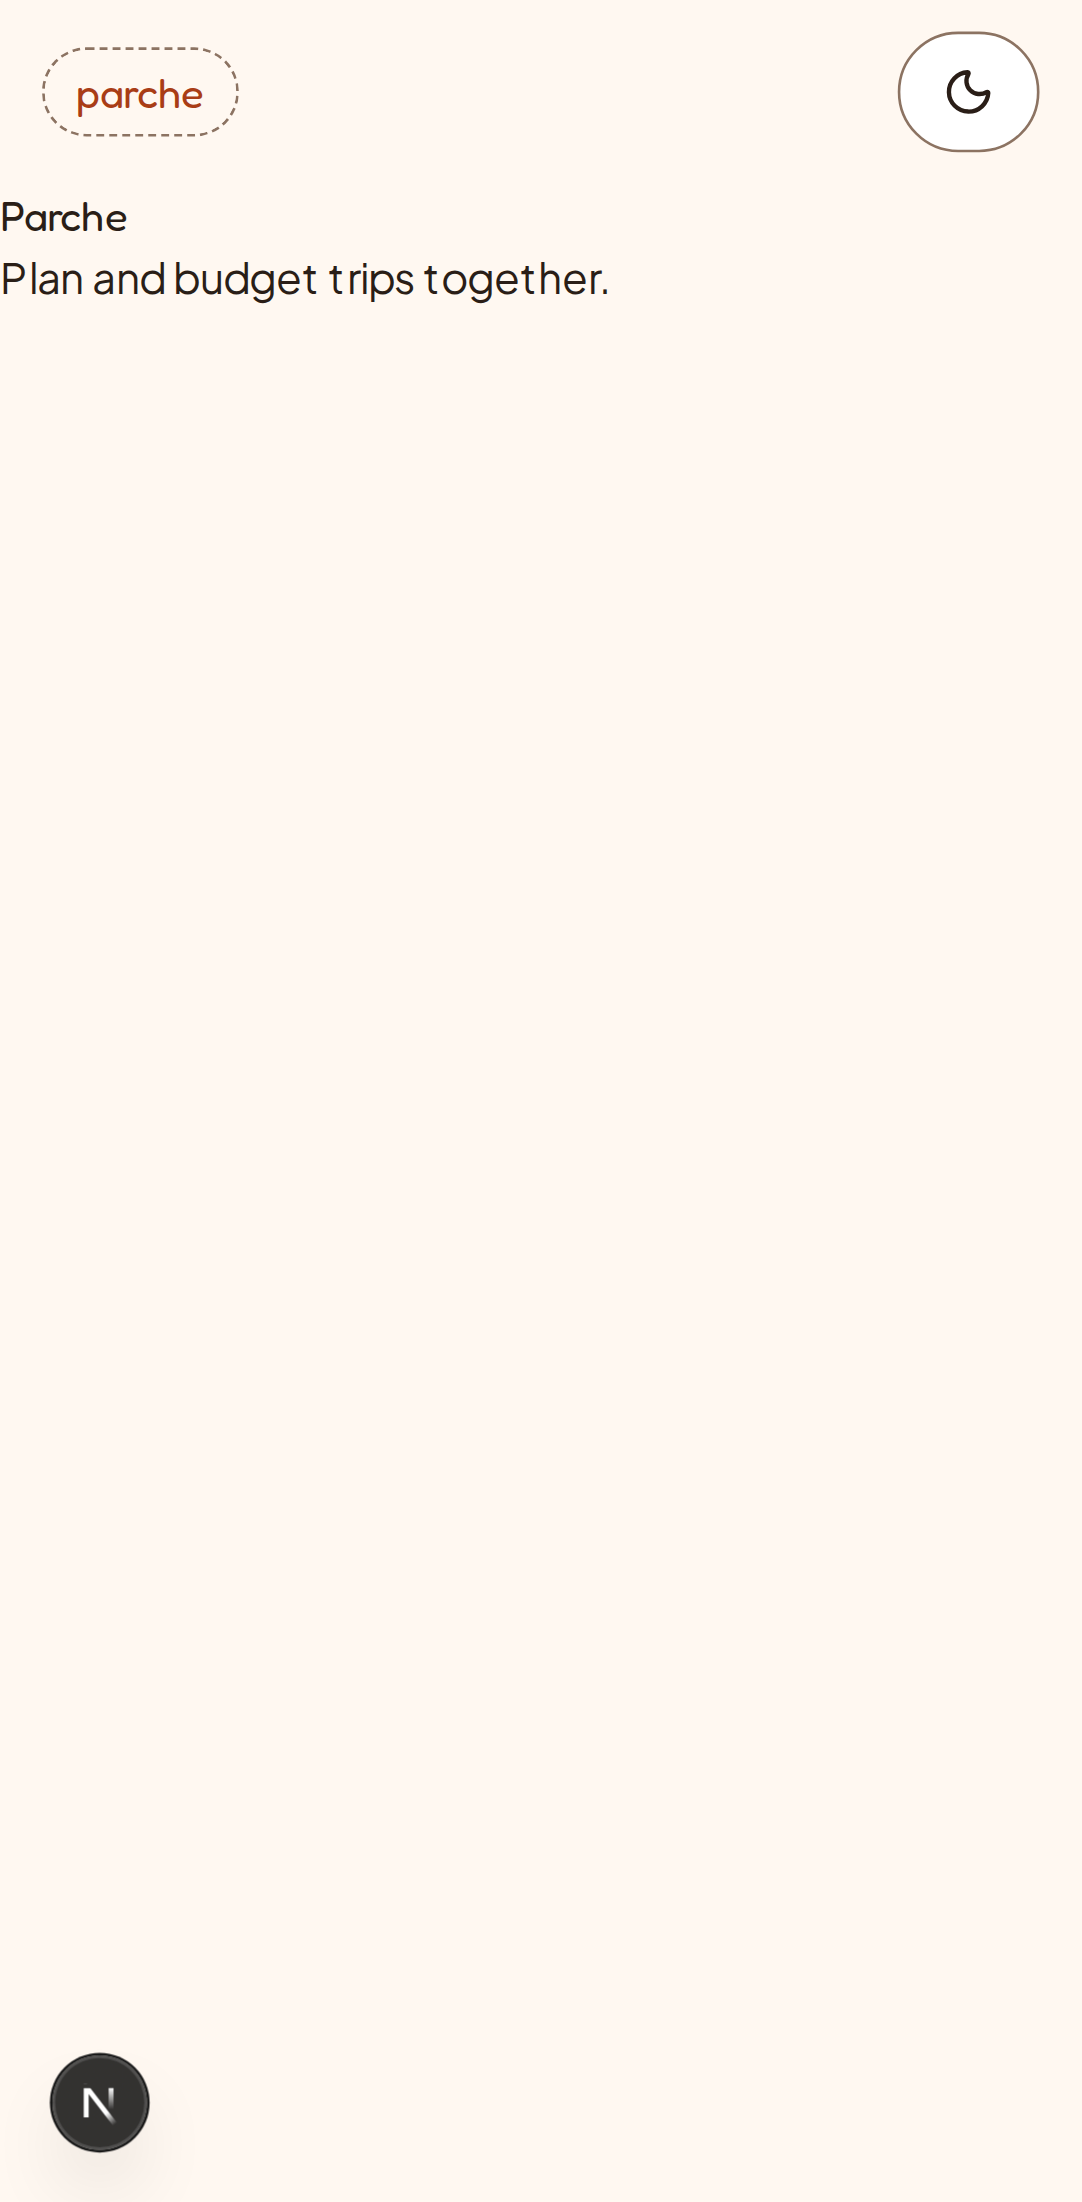
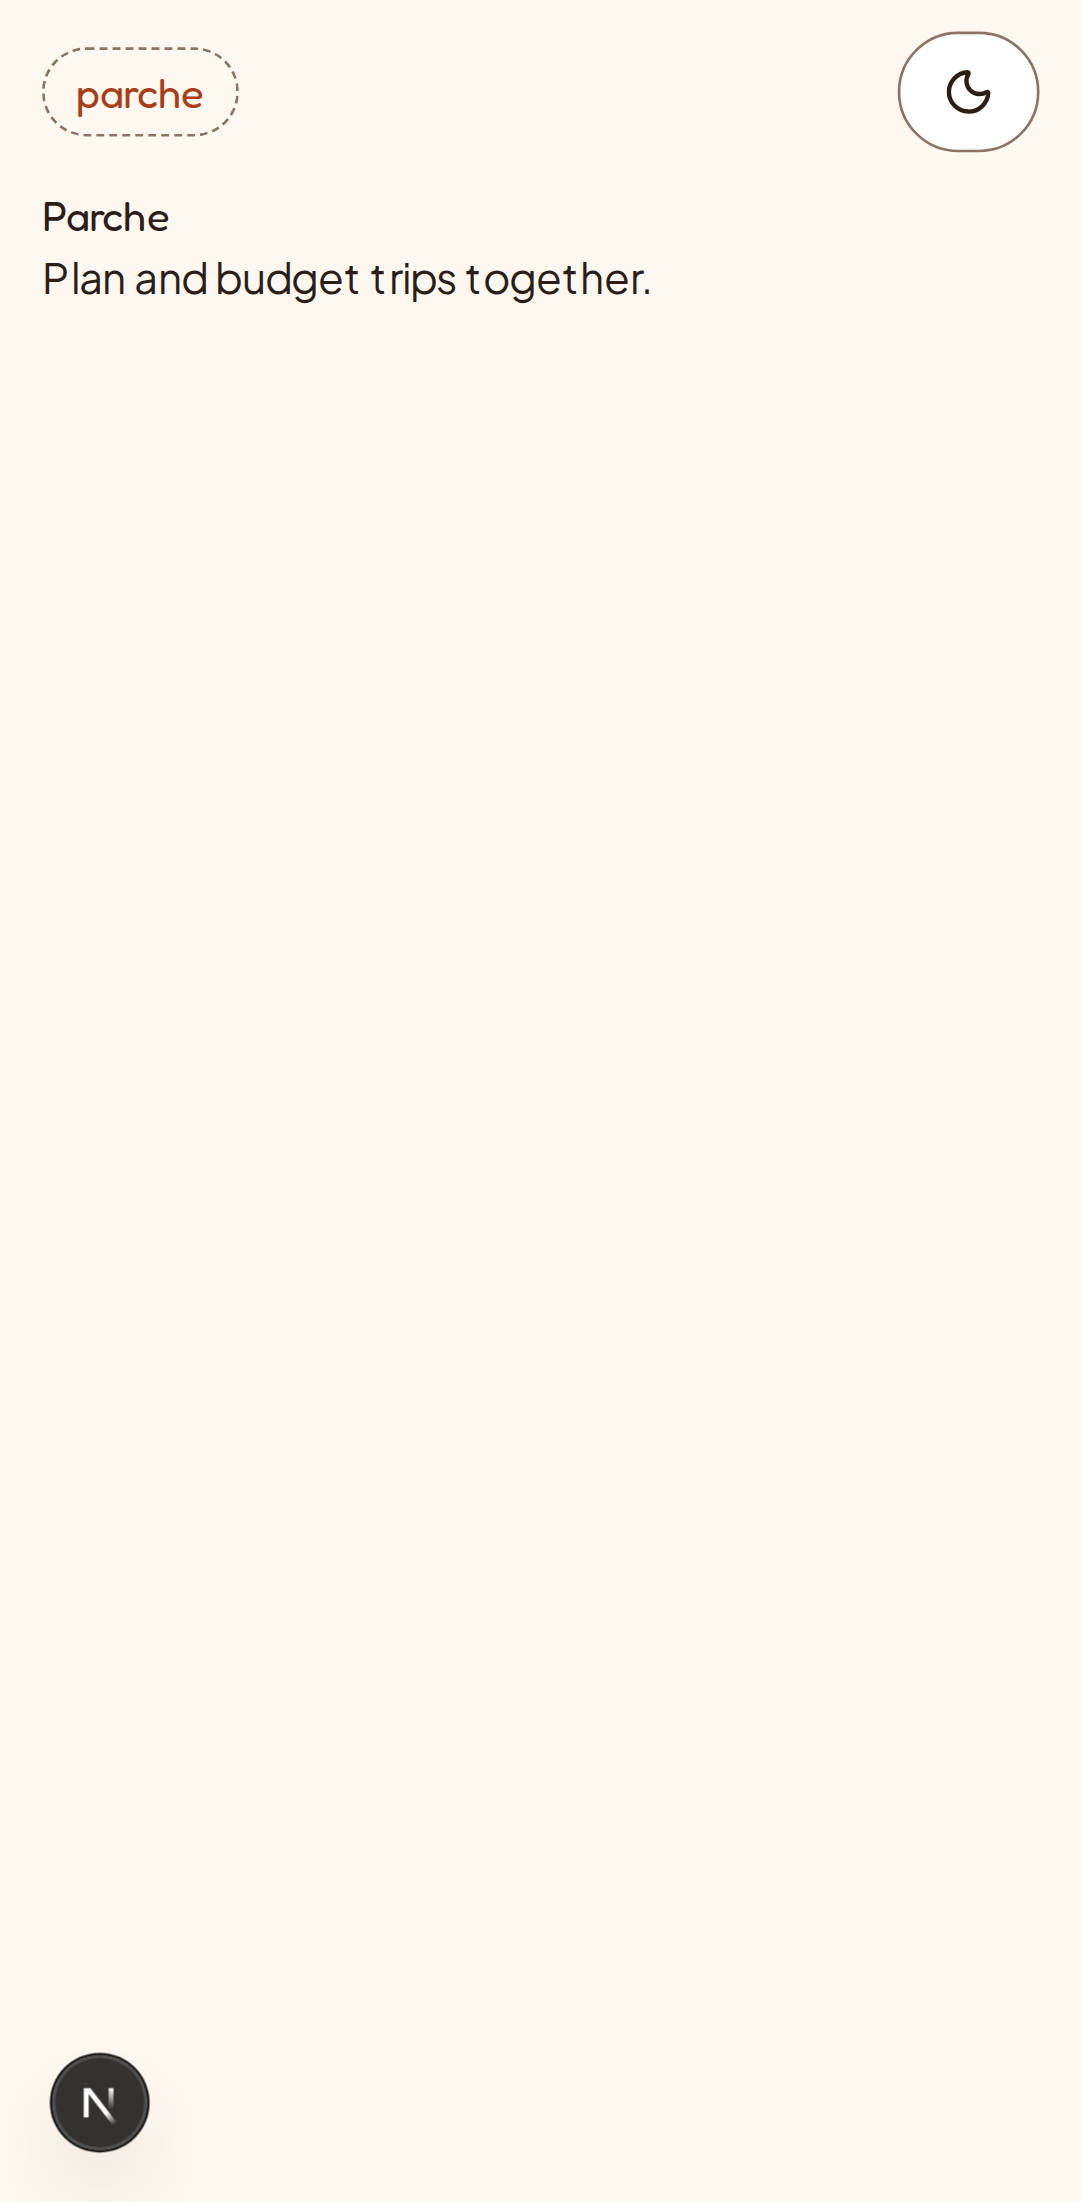
chore(design-system): re-capture visual gate evidence after round 1 fix
Refs #1

Changed region(s): [[0.0, 0.0926, 0.5795, 0.1544]]

diff --git a/features/001-design-system/log.md b/features/001-design-system/log.md
@@ -276,3 +276,13 @@ User rejected. Requests split:
   guide" wants 8-16 between them), page h1 unstyled
 Spawned implementer (sonnet) directly on feat/001-design-system for
 the three real items.
+
+## 2026-09-26 visual gate: fix round 1
+implementer (sonnet): home `<main>` gets `px-4`; styleguide h1 →
+  `mt-8 mb-8 text-3xl text-accent`; StyleguideSection → `mt-16
+  border-t border-border pt-16 first:mt-0 first:border-t-0
+  first:pt-0` (fae9cda)
+orchestrator verified: e2e @T01|@T02|@T04|@T05|@T06|@T07|@T08|@T13|
+  @T15|@smoke 34/34 desktop, re-captured evidence/gate/ (desktop
+  31/31, mobile 29/29)
+visual gate: waiting (round 2 of 2)
